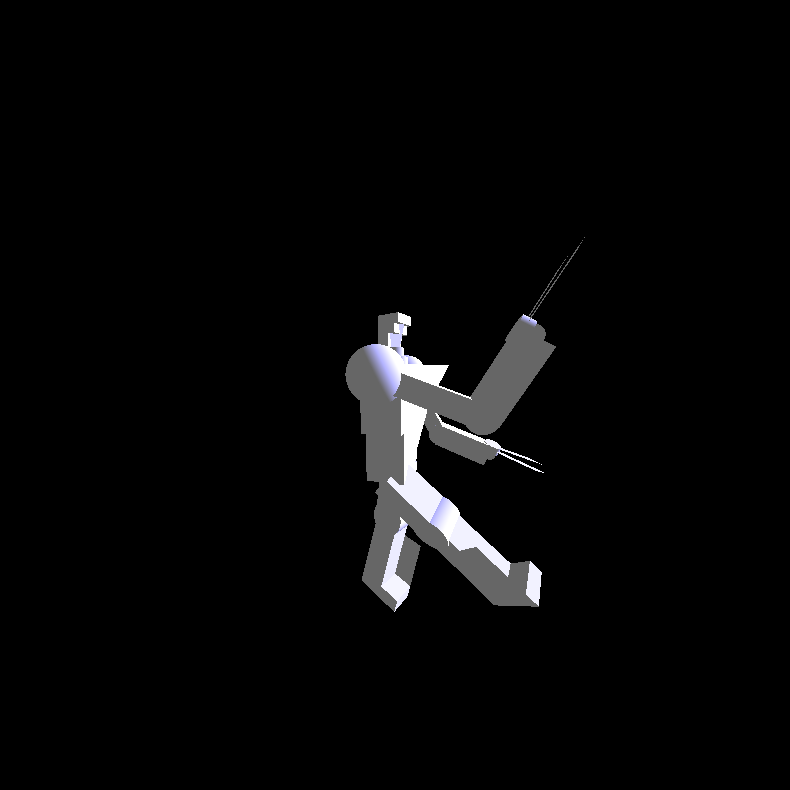
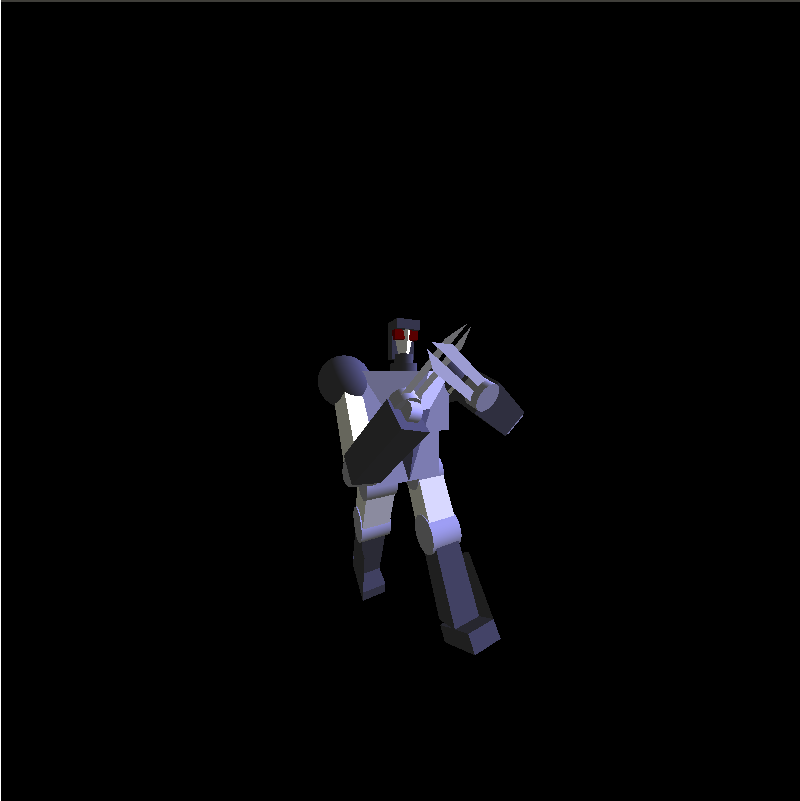
Webpage address rectified

Changed region(s): [[0.3949, 0.3646, 0.6987, 0.8203], [0.0, 0.0, 0.0304, 0.0304]]

diff --git a/src/robot.cpp b/src/robot.cpp
@@ -59,7 +59,7 @@ float tf_base_rot = 0;
 vector tf_neck_translate(0, 0, 0); 
 vector tf_left_leg_translt(0, 0, 0); vector tf_right_leg_translt(0, 0, 0);
 
-vector color_dark(0.3,0.3,0.3), color_grey(0.7,0.7,0.7), color_light(0.9,0.9,0.9), color_red(0.5,0,0);
+vector color_dark(0.3,0.3,0.3), color_grey(0.7,0.7,0.7), color_light(1,1,0.9), color_red(0.5,0,0);
 
 //~ Go back to base position in sHUMANOID
 void reset_angles_H(){
@@ -451,7 +451,6 @@ void init_structures(){
 }
 
 void draw_robot(){
-	
 	glPushMatrix();
 		
 		if (state == sTFone && prevState == sHUMANOID){

diff --git a/src/robot.hpp b/src/robot.hpp
@@ -7,7 +7,7 @@
 #include <GL/gl.h>
 #include <math.h>
 #include <unistd.h>
-
+#include <GLFW/glfw3.h>
 
 #define PI 3.1416
 
